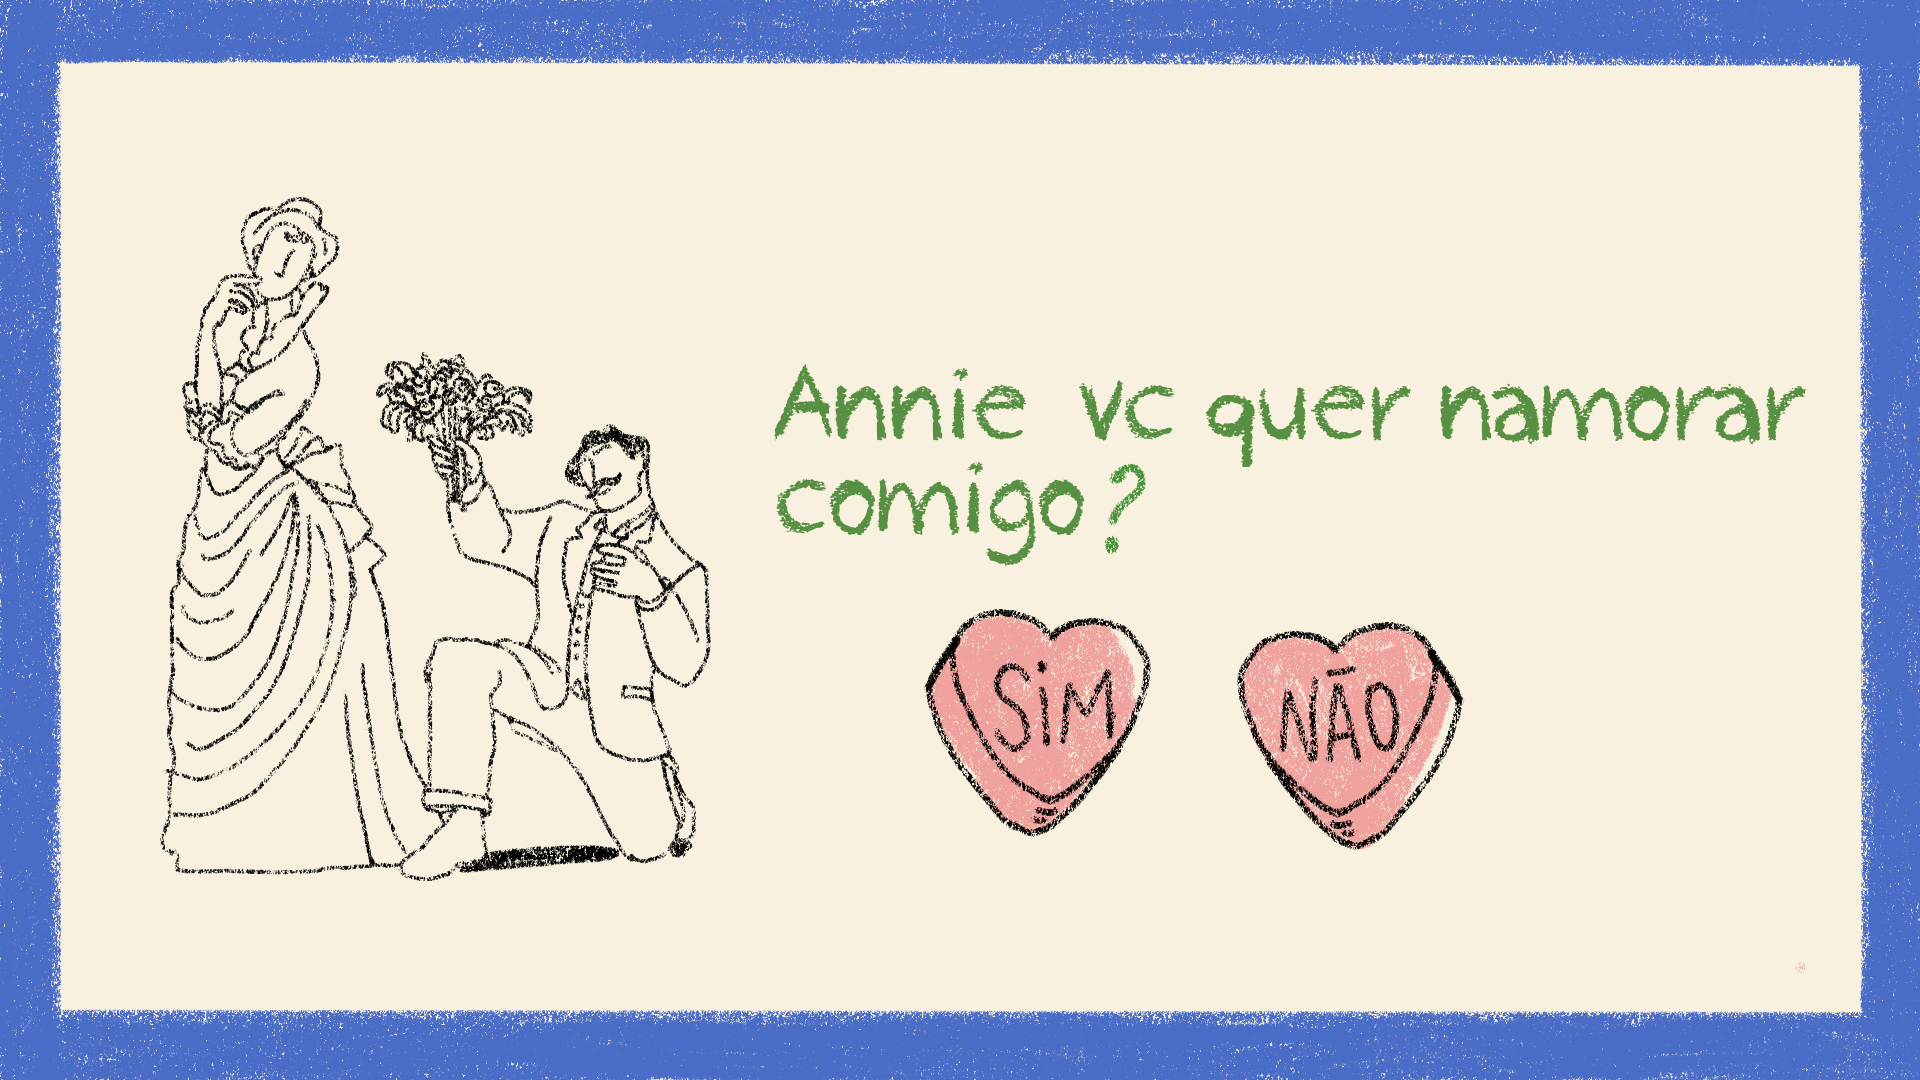
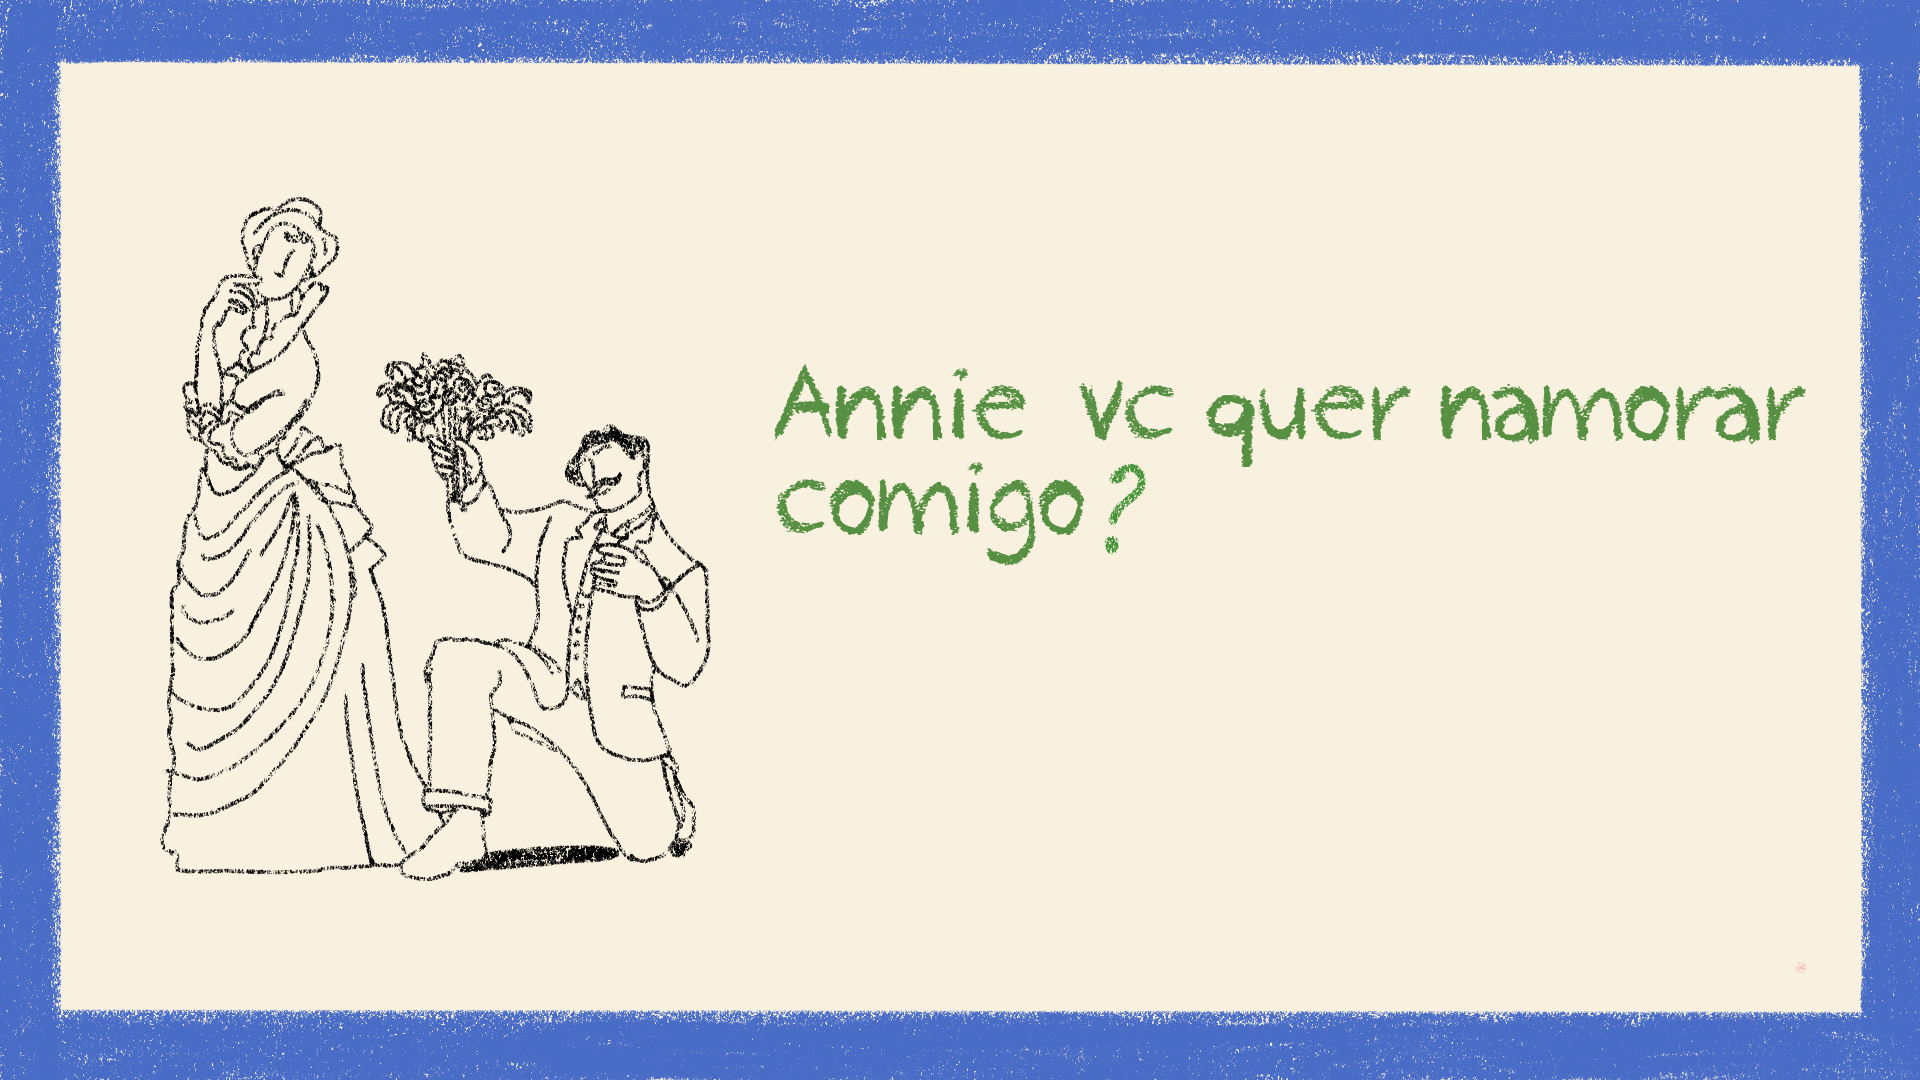
quase-pronto2

Changed region(s): [[0.4688, 0.55, 0.7812, 0.7944]]

diff --git a/nao.html b/nao.html
@@ -58,57 +58,10 @@
   <div id="slider">
     <div class="slides">
       <div class="slide">
-        <img src="img/oficial/1.png" alt="Imagem 1">
-      </div>
-      <div class="slide">
-        <img src="img/oficial/2.png" alt="Imagem 2">
-      </div>
-      <div class="slide">
-        <img src="img/oficial/3.png" alt="Imagem 3">
-      </div>
-      <div class="slide">
-        <img src="img/oficial/4.png" alt="Imagem 4">
-      </div>
-      <div class="slide">
-        <img src="img/oficial/5.png" alt="Imagem 5">
-      </div>
-      <div class="slide">
-        <img src="img/oficial/6.png" alt="Imagem 6">
-      </div>
-      <div class="slide">
-        <img src="img/oficial/7.png" alt="Imagem 7">
-      </div>
-      <div class="slide">
-        <img src="img/oficial/8.png" alt="Imagem 8">
-      </div>
-      <div class="slide">
-        <img src="img/oficial/9.png" alt="Imagem 9">
-      </div>
-      <div class="slide">
-        <img src="img/oficial/10.png" alt="Imagem 10">
-      </div>
-      <div class="slide">
-        <img src="img/oficial/11.png" alt="Imagem 11">
-      </div>
-      <div class="slide">
-        <img src="img/oficial/12.png" alt="Imagem 12">
-      </div>
-      <div class="slide">
-        <img src="img/oficial/13.png" alt="Imagem 13">
-      </div>
-      <div class="slide">
-        <img src="img/oficial/14.png" alt="Imagem 14">
-      </div>
-      <div class="slide">
-        <img src="img/oficial/15.png" alt="Imagem 15">
-      </div>
-      <div class="slide">
-        <img src="img/oficial/16.png" alt="Imagem 16">
+        <img src="img/oficial/17.png" alt="Imagem 17">
       </div>
     </div>
-    <img class="arrow right" src="img/oficial/seta.png" onclick="changeSlide(1)">
   </div>
-
   <script>
     var slideIndex = 1;
     showSlide(slideIndex);
@@ -119,9 +72,9 @@
       
       //mudança para o ultimo slide
       //não aparece o utlimo slida
-      if (nextSlideIndex === 16) {
+      if (nextSlideIndex === 17) {
         // Redirecionar para outro HTML
-        window.location.href = "pedido.html";
+        window.location.href = "nao.html";
       } else {
         showSlide(nextSlideIndex);
       }

diff --git a/pedido.html b/pedido.html
@@ -1,0 +1,79 @@
+<!DOCTYPE html>
+<html>
+
+<head>
+  <style>
+    body,
+    html {
+      height: 100%;
+      margin: 0;
+      overflow: hidden;
+    }
+
+    #slider {
+      width: 100%;
+      height: 100%;
+      overflow: hidden;
+      position: relative;
+    }
+
+    #slider .slides {
+      display: flex;
+      transition: left 0.5s;
+      height: 100%;
+    }
+
+    #slider .slide {
+      width: 100%;
+      height: 100%;
+    }
+
+    #slider .slide img {
+      width: 100%;
+      height: 100%;
+      object-fit: cover;
+    }
+
+    #slider .arrow {
+      position: absolute;
+      bottom: 10px;
+      cursor: pointer;
+      width: 60px;
+      height: 60px;
+      z-index: 1;
+    }
+
+    #slider .arrow.left {
+      right: 590px;
+      bottom: 190px;
+      width: 200px;
+      height: 200px;
+    }
+
+    #slider .arrow.right {
+      right: 340px;
+      bottom: 190px;
+      width: 210px;
+      height: 200px;
+
+    }
+  </style>
+</head>
+
+<body>
+  <div id="slider">
+    <div class="slides">
+      <div class="slide">
+        <img src="img/oficial/16.png" alt="Imagem 17">
+      </div>
+    </div>
+
+    <img class="arrow left" src="img/oficial/sim.png" onclick="changeSlide(1)">
+    <a href="nao.html">
+      <img class="arrow right" src="img/oficial/nao.png" onclick="changeSlide(1)">
+    </a>
+  </div>
+
+</body>
+
+</html>
